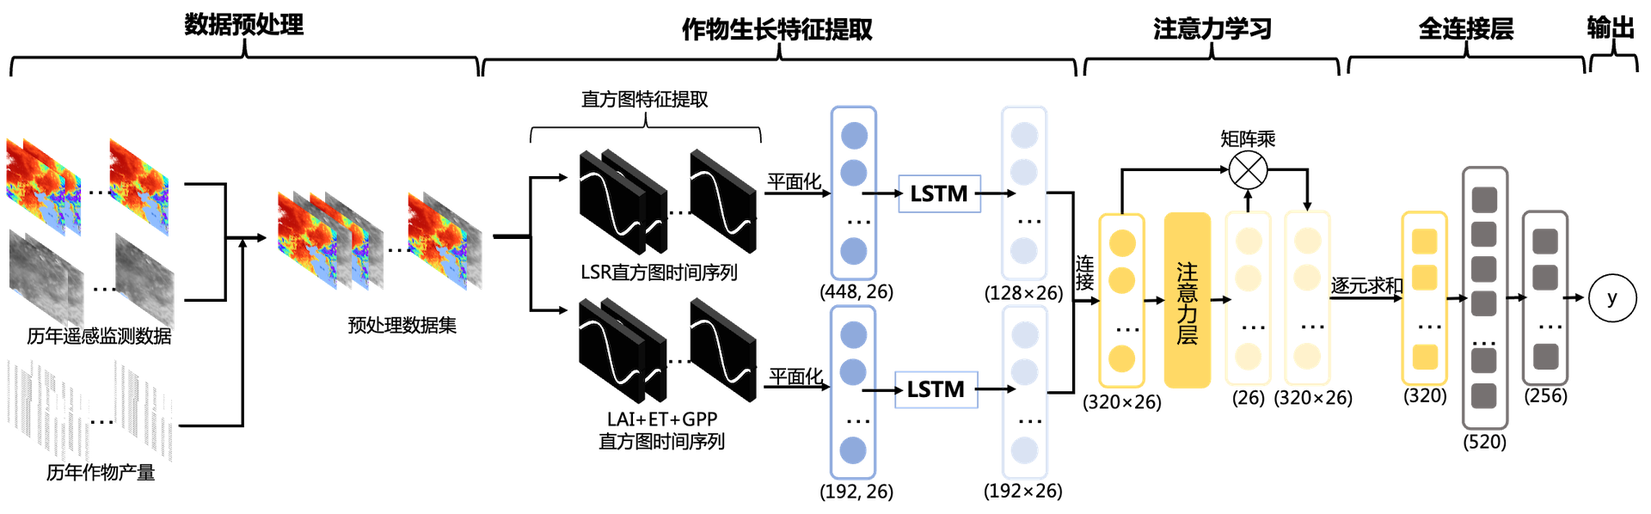
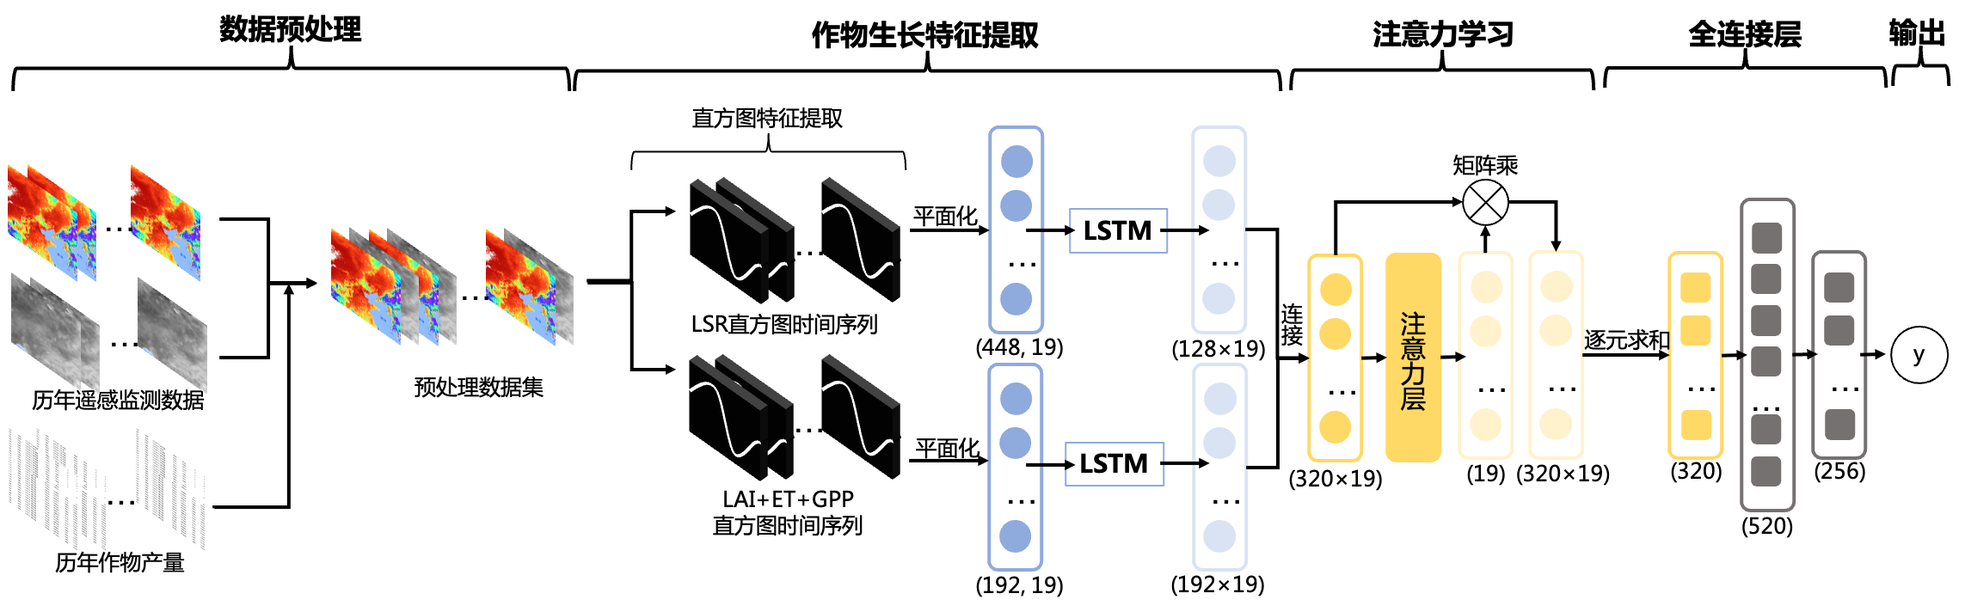
final_v0.3

diff --git a/body/undergraduate/final/2-body.tex b/body/undergraduate/final/2-body.tex
@@ -3,12 +3,12 @@
 \section{研究区域与数据}
 \subsection{研究区概况}
 \par 据联合国粮食与农业组织（FAO）\cite{FAO2022}统计，2022年中国玉米产量已占全球23.9\%，位居世界第二。同时中国作为世界两大玉米消费国之一，玉米消费量占全球消费总量的25.2\%。因此，玉米生产不论对中国经济还是对全球食品安全方面都有着重要意义。
-\par 目前，我国的玉米种植分布极不均衡，主要集中于东北、华北与西南地区。根据《中国统计年鉴-2022》\cite{国家统计局2022中国统计年鉴}统计，2022年东北三省的玉米产量占全国总产量的34.3\%。东北地区作为中国主要的粮食生产基地，其中的东北平原耕地广阔，地势平坦，利用遥感手段提取作物生长信息较为便利。因此，研究选定东北三省作为研究区域，即黑龙江省、吉林省与辽宁省，该地区以旱地为主，采用一季耕作模式，每年4-5月播种，9-10月收获。
+\par 目前，我国的玉米种植分布极不均衡，主要集中于东北、华北与西南地区。根据《中国统计年鉴-2022》\cite{国家统计局2022中国统计年鉴}统计，2022年东北三省的玉米产量占全国总产量的34.3\%。东北地区作为中国主要的粮食生产基地，其中的东北平原耕地广阔，地势平坦。然而，使用深度学习方法对东北地区进行玉米产量预测的研究尚不充分。因此，研究选定东北三省作为研究区域，即黑龙江省、吉林省与辽宁省，该地区以旱地为主，采用一季耕作模式，每年4月至5月播种，9月至10月收获。
 
 \subsection{作物数据}
-\par 在本研究中，东北地区各地级市的玉米总产量数据来源于知网中国经济社会大数据研究平台\cite{中国经济社会大数据研究平台}提供的黑龙江省、吉林省和辽宁省的统计年鉴。经过数据合并和清洗，获得了2000年至2019年东北地区地级市的玉米总产量数据。在数据处理过程中，注意到黑龙江省在2013年至2018年期间单独统计了绥芬河市和抚远市的作物总产量数据。因此，在对数据进行合并时，将这两个城市的产量数据分别合并入牡丹江市和佳木斯市的玉米总产量中，便于后续进行统一计算。2000年至2019年地级市玉米平均年总产量分布如\autoref{fig:yield_city}所示。
+\par 在本研究中，东北地区各地级市的玉米总产量数据来源于知网中国经济社会大数据研究平台\cite{中国经济社会大数据研究平台}提供的黑龙江省、吉林省和辽宁省的统计年鉴。经过数据合并和清洗，获得了2000年至2019年东北地区地级市的玉米总产量数据。在数据处理过程中，注意到黑龙江省在2013年至2018年期间单独统计了绥芬河市和抚远市的作物总产量数据。因此，在对数据进行合并时，将这两个城市的产量数据分别合并入牡丹江市和佳木斯市的玉米总产量中，便于后续进行统一计算。2000年至2019年地级市玉米平均年总产量分布如\autoref{fig:yield_city}所示。其中，松嫩平原及周边地区为玉米主要产区，总产量最高，三江平原与辽河平原也有较高的玉米产量。
 
-\par 东北三省的县级玉米总产量数据来源于项目提供的1981年至2012年的全国区县主要作物统计数据。通过对这些数据进行筛选和清洗，研究仅保留黑龙江省、吉林省和辽宁省的区县数据，对于部分缺失数据的无效区县样本进行了舍弃，获取了2000年至2012年的东北地区县级玉米总产量。与2000年至2012年区县尺度玉米平均年总产量分布如\autoref{fig:yield_county}所示，其中灰色区块表明该地区没有有效样本。
+\par 东北三省的县级玉米总产量数据来源于项目提供的1981年至2012年的全国区县主要作物统计数据。通过对这些数据进行筛选和清洗，研究仅保留黑龙江省、吉林省和辽宁省的区县数据，对于部分缺失数据的无效区县样本进行了舍弃，获取了2000年至2012年的东北地区县级玉米总产量。与2000年至2012年区县尺度玉米平均年总产量分布如\autoref{fig:yield_county}所示，其中灰色区块表明该地区没有有效样本。可见在县级尺度下，玉米高产量地区集中分布于黑龙江省西南部、吉林省西部与辽宁省北部，总体呈现西南多、东北少的分布特征。
 
 \begin{figure}
   \centering
@@ -48,9 +48,9 @@
 \par 研究中所用玉米分布数据来源于张朝等人制作的2000-2019年我国三大粮食作物物候分布图 ChinaCropPhen1km\cite{luo2020chinacropphen1km}，该产品空间分辨率为1km。数据集可通过Figshare平台（https://figshare.com）获取。
 
 \subsection{数据预处理}
-\par 在获取MODIS产品数据方面，目前主要使用谷歌云计算平台（Google Earth Engine, GEE）提供的云计算服务\cite{gorelick2017google}。平台数据目录存放了大量可公开获取的地理空间数据集，并可以通过基于Javascript API的Web端或Python API进行批量数据处理，能够满足各种研究需求。GEE 通过自身高效的计算能力和较为完整且实时更新的地理空间数据集，帮助用户通过统一简洁的编程环境对数据进行预处理操作，高效地解决了不同来源数据集在获取与处理过程中带来的处理时间冗长与存储空间不足问题。
+\par 在获取MODIS产品数据方面，目前主要使用谷歌云计算平台（Google Earth Engine, GEE）提供的云计算服务\cite{gorelick2017google}。平台数据目录存放了大量可公开获取的地理空间数据集，并可以通过基于Javascript API的Web端（https://code.earthengine.google.com）或Python API进行批量数据处理，能够满足各种研究需求。GEE 通过自身高效的计算能力和较为完整且实时更新的地理空间数据集，帮助用户通过统一简洁的编程环境对数据进行预处理操作，高效地解决了不同来源数据集在获取与处理过程中带来的处理时间冗长与存储空间不足问题。
 
-\par 介于以上优点，研究使用了 GEE 平台提供的 Python API，并结合 Shell 和 Python 脚本，批量获取了2000年到2019年18年内4月1日至10月31日的四项产品数据。这些数据分别被划分至地级市尺度和区县尺度，利用全国行政区划矢量数据进行划分。为了方便后续处理，将这些数据在云端先重采样至1km，再下载到本地进行进一步的处理和分析。同理，利用已有的行政区划数据对 ChinaCropPhen1km 数据集进行分割，并按照年份和行政区域分别对其进行存储。
+\par 介于以上优点，研究使用了 GEE 平台提供的 Python API，并结合 Shell 和 Python 脚本，批量获取了2000年到2019年18年内4月1日至8月31日的四项产品数据。这些数据分别被划分至地级市尺度和区县尺度，利用全国行政区划矢量数据进行划分。为了方便后续处理，将这些数据在云端先重采样至1km，再下载到本地进行进一步的处理和分析。同理，利用已有的行政区划数据对 ChinaCropPhen1km 数据集进行分割，并按照年份和行政区域分别对其进行存储。
 
 \par 地理空间数据抽象库\cite{warmerdam2008geospatial}（Geospatial Data Abstraction Library, GDAL）是一个开源地理空间数据处理库，它提供了一套完整的工具集，可用于读取、写入、转换和分析各种地理空间数据格式。通过使用 GDAL 对 ChinaCropPhen1km 数据集进行重投影处理，可以将其与 MODIS 产品数据进行匹配，以准确提取玉米种植地区的遥感信息。此外，将两数据集进行掩膜计算可以实现仅保留玉米种植地区的遥感信息，从而排除了其他不相关的信息干扰的目的。通过重投影与掩膜计算，研究成功获得了2000年至2019年地级市尺度以及2000年至2012年区县尺度的玉米遥感特征数据集。
 
@@ -60,12 +60,12 @@
     \label{equ:modis_series}
     I=(I^1, I^2, ..., I^t, ..., I^T), I^t\in R^{r\times c\times b}
 \end{equation}
-\par 其中，$I^t$指时间$t$时的多波段遥感影像；$r$、$c$、$b$分别指影像的行数、列数和波段数；$T$指影像的时间序列长度。在本研究中，$T=26$，$b=10$。
+\par 其中，$I^t$指时间$t$时的多波段遥感影像；$r$、$c$、$b$分别指影像的行数、列数和波段数；$T$指影像的时间序列长度。在本研究中，$T=19$，$b=10$。
 
 \section{研究方法}
 \subsection{估产样本构建}
 
-\par 通过上述数据预处理步骤，可以获得如\autoref{equ:dataset1}所示的样本数据集：
+\par 利用遥感特征数据地级市ID（ct\_adcode）或区县ID（dt\_adcode）与玉米真实产量所属地区ID一一对应，完成输入特征和输出总产量的匹配。最终可以获得如\autoref{equ:dataset1}所示的样本数据集：
 
 \begin{equation}
   \label{equ:dataset1}
@@ -74,7 +74,7 @@
 
 \par 其中，$y$为地区总产量，每一个样本$(I_t, y_t)$表示了某地区某年份的玉米遥感特征影像和总产量。
 
-\par 为了降低样本数据的维度，研究采用直方图降维的方法对样本数据进行降维处理。直方图降维的前提是假设玉米产量与像素空间分布无关，仅与不同像素数量相关。为确定直方图降维范围，减少直方图降维过程中的信息损失，研究首先借助 GDAL 库对各个波段的最大、最小值进行获取，统计了玉米特征样本集中像素值范围，如\autoref{tab:range}所示：
+\par 为了更好的提取作物生长特征，研究采用直方图降维的方法对样本数据进行降维处理。直方图降维的前提是假设玉米产量与像素空间分布无关，仅与不同像素数量相关。为确定直方图降维范围，减少直方图降维过程中的信息损失，研究首先借助 GDAL 库对训练集各个波段的最大、最小值进行获取，统计了玉米特征样本集中像素值范围，如\autoref{tab:range}所示：
 
 \begin{table}
   \centering
@@ -119,12 +119,12 @@
   D=\{(M_1, y_1),(M_2, y_2), ..., (M_n, y_n)\}
 \end{equation}
 
-\par 在本次实验中，东北地区地级市尺度玉米样本集包含2002年-2019年东北地区36个地级市646个样本，其中538个样本作为训练集，108个样本作为测试集；区县级尺度玉米样本集包含2002年-2012年282个区县的2335个有效样本，其中1850个样本作为训练集，485个样本作为测试集。
+\par 在本次实验中，东北地区地级市尺度玉米样本集包含2002年-2019年东北地区36个地级市646个样本，其中选取2002-2016年538个样本作为训练集，2017-2019年108个样本作为测试集；区县级尺度玉米样本集包含2002年-2012年282个区县的2335个有效样本，其中选取2002-2011年1850个样本作为训练集，2012年485个样本作为测试集。
 
 \subsection{模型构建}
-\subsubsection{结合注意力机制的长短期记忆神经网络}
+\subsubsection{DUAL\_ATT：结合注意力机制的两层长短期记忆神经网络}
 
-\par 研究使用的深度学习网络由两部分组成，如\autoref{fig:network}所示，首先由两个LSTM层分别接收由地表反射率共7个波段降维得到的特征向量和由地表蒸发量、叶面积指数和总初级生产力共3个波段降维得到的特征向量。通过将两个隐藏层的输出进行拼接，输入至注意力层计算参数权重向量，与原有特征向量进行乘计算后获得最终的特征向量。最后，特征向量经过三个全连接层，输出最终的玉米总产量预测值。
+\par 研究使用的深度学习网络由两部分组成，如\autoref{fig:network}所示，首先由两个LSTM层分别接收由地表反射率共7个波段降维得到的特征向量和由地表蒸发量、叶面积指数和总初级生产力共3个波段降维得到的特征向量。通过将两个隐藏层的输出进行拼接，输入至注意力层计算参数权重向量，与原有特征向量进行矩阵乘计算后获得最终的特征向量。最后，特征向量经过三个全连接层，输出最终的玉米总产量预测值。
 
 \begin{figure}[ht]
   \centering
@@ -180,13 +180,12 @@
 \par 为了验证提出模型的有效性，研究还对比了五个模型，分别是：
 
 \begin{itemize}
-  \item [（1）] 由两个并列LSTM层构成的深度学习模型（DUAL），隐藏单元数被分别设定为128个和192个，不包含注意力层。
-  \item [（2）] 结合了单层LSTM和注意力机制层的深度学习模型（LSTM\_ATT），其中LSTM隐藏单元数为320个。
-  \item [（3）] 由一层隐藏单元数为320的LSTM构成的深度学习模型（LSTM），不包含注意力层。
-  \item [（4）] 卷积神经网络模型（CNN），模型结构借鉴了由 You 等人\cite{you2017deep}提出的卷积神经网络结构，包含六个卷积层C1～C6，卷积核个数分别为64、64、128、128、256和256，卷积核大小均为$3\times 3$，滑动步长分别为2、1、2、1、2和1。每个卷积层后面都包含一个批归一化层和一个ReLu激活层。最后，将卷积层的输出依次经过神经元数量为512、256和1的三个全连接层，每个全连接层后的 Dropout 参数分别为50\%、30\%和20\%，最终输出玉米总产量预测值。
-  \item [（5）] 随机森林模型（RF），研究采用了 sklearn 库中的RandomForestRegressor类，该类实现了一种基于随机森林的回归算法。在随机森林模型的训练过程中，通过设置了多个关键参数，确保模型的稳定性和准确性。其中，随机森林中树的数量为200，树的最大深度为8，每个节点的最小样本数为3，每个叶子节点的最小样本数为4。
+  \item [（1）] DUAL：由两个并列LSTM层构成的深度学习模型，隐藏单元数被分别设定为128个和192个，不包含注意力层。
+  \item [（2）] LSTM\_ATT：结合了单层LSTM和注意力机制层的深度学习模型，其中LSTM隐藏单元数为320个。
+  \item [（3）] LSTM：由一层隐藏单元数为320的LSTM构成的深度学习模型，不包含注意力层。
+  \item [（4）] CNN：卷积神经网络模型，模型结构借鉴了由 You 等人\cite{you2017deep}提出的卷积神经网络结构。通过实验对比5、6和7个卷积层的预测效果，最终选择包含六个卷积层C1～C6的网络模型，卷积核个数分别为64、64、128、128、256和256，卷积核大小均为$3\times 3$，滑动步长分别为2、1、2、1、2和1。每个卷积层后面都包含一个批归一化层和一个ReLu激活层。最后，将卷积层的输出依次经过神经元数量为512、256和1的三个全连接层，通过测试50\%、40\%、30\%、20\%和10\%的失活率后，每个全连接层后的Dropout参数被分别设置为50\%、30\%和20\%，最终输出玉米总产量预测值。
+  \item [（5）] RF：随机森林模型，研究采用了sklearn库中的RandomForestRegressor类，该类实现了一种基于随机森林的回归算法。在随机森林模型的训练过程中，通过设置了多个关键参数，确保模型的稳定性和准确性。其中，随机森林中树的数量在测试了100、200、300、400和500后设置为200，树的最大深度在测试了6、8、10和12后设置为8，每个节点的最小样本数为3，每个叶子节点的最小样本数为4。
 \end{itemize}
-
 \subsection{评价指标}
 
 \par 为了评价模型的预测效果，研究采用了决定系数（$R^2$）、均方根误差（RMSE）和皮尔森相关系数（Pearson's R）三个评价指标。其中，$R^2$衡量了模型解释数据方差的能力，其值越接近1，表示模型对数据的解释越好。RMSE 用于度量模型预测值和实际值之间的误差大小，其值越小，表示模型预测的准确性越高。Pearson's R 用于评估模型输出和真实值之间的线性相关性，其值介于-1到1之间。其具体计算公式表示如下：
@@ -206,11 +205,13 @@
 
 \par 其中，$y_i$表示第i个样本的真实总产量，$\hat{y}_i$表示第i个样本的预测总产量，$\bar{y}_i$表示第i个样本真实平均总产量，$\bar{\hat{y}}_i$表示第i个样本预测平均总产量，$n$为样本总数。
 
-
 \section{结果分析}
 \subsection{估产精度分析}
+\subsubsection{地级市尺度估产精度分析}
 
 \par 在实验中，地级市尺度的模型测试选取了2017年-2019年三个年份不同城市的样本数据，测试实验得到的评价指标值如\autoref{tab:score_city}所示。结果显示，结合了注意力机制且包含两个LSTM层输入的DUAL\_ATT模型拥有最好的估产精度。具体而言，DUAL\_ATT的决定系数$R^2$为0.8244，均方根误差RMSE为101.2051万吨，皮尔森相关系数Pearson's R为0.9112。
+
+\par 可以看出，研究采用的玉米估产模型对于区域总产量预测具有较高的准确性。相较于仅包含一层LSTM层和注意力层的LSTM\_ATT模型，DUAL\_ATT模型在地级市尺度的决定系数$R^2$提高了0.1062，均方根误差RMSE降低了27.0219万吨，皮尔森相关系数Pearson's R提高了0.0281。与仅包含两层LSTM层而不包含注意力层的DUAL模型对比，DUAL\_ATT模型在地级市尺度的决定系数$R^2$提高了0.0683，均方根误差RMSE降低了18.0896万吨，皮尔森相关系数Pearson's R提高了0.0177。注意力机制最早应用于编码器-解码器（Encoder - Decoder）框架中，用于解决长期记忆能力有限、提取序列转化过程中的相互关系和模型结构输出质量的问题\cite{朱张莉2019注意力机制在深度学习中的研究进展}。DUAL\_ATT模型预测效果的提升表示，注意力机制的引入帮助玉米产量预测模型更好地捕捉了时间序列中的相互关系，提升了模型的长期记忆能力，实现了预测效果的提升。
 
 \begin{table}
   \centering
@@ -230,7 +231,12 @@
   \end{tabularx}
 \end{table}
 
+\par 与其他地级市尺度的玉米估产模型相比，卷积神经网络模型（CNN）和随机森林模型（RF）表现相对不理想。这可能是由于这些模型处理存在时间序列的数据的能力有所不足，无法捕捉到作物生长的复杂过程。具体而言，随机森林的原理是运用bootsrap重抽样方法从原始样本中抽取若干样本，并对每个bootsrap样本进行决策树建模，然后通过组合多棵决策树的预测结果，投票得出最终预测结果\cite{方匡南2011随机森林方法研究综述}。随机森林在传统分类问题上有很好的应用效果，然而，由于随机森林模型的决策树是独立建模的，无法捕捉到时间序列数据中的相互关系，因此在本研究中的预测效果不佳。卷积神经网络模型（CNN）的原理是通过卷积核对输入数据进行卷积操作，提取数据的空间特征，然后通过池化层对特征进行降维，最后通过全连接层进行分类\cite{周飞燕2017卷积神经网络研究综述}。卷积神经网络模型通过卷积核的时空联合学习，能够提取一定的时间序列特征，然而较于长短期记忆神经网络的长程记忆能力仍有所不足。
+
+\subsubsection{区县尺度估产精度分析}
 \par 县级尺度的估产模型选取了2012年的样本数据进行测试。测试实验得到的评价指标值如\autoref{tab:score_county}所示。尽管整体测试评价指标值较地级市尺度玉米估产有一定差距，但DUAL\_ATT的总体评价仍然是相对最优的。在区县尺度的测试集上，DUAL\_ATT的决定系数$R^2$为0.6141，均方根误差RMSE为39.4236万吨，皮尔森相关系数Pearson's R为0.8214。
+
+\par 在县级尺度的测试集上，DUAL\_ATT模型的决定系数$R^2$提高了0.0886，均方根误差RMSE降低了4.2904万吨，皮尔森相关系数Pearson's R提高了0.0896。这表明，DUAL\_ATT模型中的两层LSTM层通过分别接收地表反射率光谱数据和叶面积指数、地表蒸发量和总初级生产力光谱数据，更有效地捕捉了作物生长特征，因此提升了预测效果。与仅包含两层LSTM层而不包含注意力层的DUAL模型对比，DUAL\_ATT模型的决定系数$R^2$提高了0.1294，均方根误差RMSE降低了6.1308万吨，皮尔森相关系数Pearson's R提高了0.0447。
 
 \begin{table}
   \centering
@@ -249,12 +255,6 @@
       \bottomrule
   \end{tabularx}
 \end{table}
-
-\par 可以看出，研究采用的玉米估产模型对于区域总产量预测具有较高的准确性。相较于仅包含一层LSTM层和注意力层的LSTM\_ATT模型，DUAL\_ATT模型在地级市尺度的决定系数$R^2$提高了0.1062，均方根误差RMSE降低了27.0219万吨，皮尔森相关系数Pearson's R提高了0.0281。在县级尺度的测试集上，DUAL\_ATT模型的决定系数$R^2$提高了0.0886，均方根误差RMSE降低了4.2904万吨，皮尔森相关系数Pearson's R提高了0.0896。这表明，DUAL\_ATT模型中的两层LSTM层通过分别接收地表反射率光谱数据和叶面积指数、地表蒸发量和总初级生产力光谱数据，更有效地捕捉了作物生长特征，因此提升了预测效果。
-
-\par 与仅包含两层LSTM层而不包含注意力层的DUAL模型对比，DUAL\_ATT模型在地级市尺度的决定系数$R^2$提高了0.0683，均方根误差RMSE降低了18.0896万吨，皮尔森相关系数Pearson's R提高了0.0177。在县级尺度的测试集上，DUAL\_ATT模型的决定系数$R^2$提高了0.1294，均方根误差RMSE降低了6.1308万吨，皮尔森相关系数Pearson's R提高了0.0447。注意力机制最早应用于编码器-解码器（Encoder - Decoder）框架中，用于解决长期记忆能力有限、提取序列转化过程中的相互关系和模型结构输出质量的问题\cite{朱张莉2019注意力机制在深度学习中的研究进展}。DUAL\_ATT模型预测效果的提升表示，注意力机制的引入帮助玉米产量预测模型更好地捕捉了时间序列中的相互关系，提升了模型的长期记忆能力，实现了预测效果的提升。
-
-\par 与其他地级市尺度的玉米估产模型相比，卷积神经网络模型（CNN）和随机森林模型（RF）表现相对不理想。这可能是由于这些模型处理存在时间序列的数据的能力有所不足，无法捕捉到作物生长的复杂过程。具体而言，随机森林的原理是运用bootsrap重抽样方法从原始样本中抽取若干样本，并对每个bootsrap样本进行决策树建模，然后通过组合多棵决策树的预测结果，投票得出最终预测结果\cite{方匡南2011随机森林方法研究综述}。随机森林在传统分类问题上有很好的应用效果，然而，由于随机森林模型的决策树是独立建模的，无法捕捉到时间序列数据中的相互关系，因此在本研究中的预测效果不佳。卷积神经网络模型（CNN）的原理是通过卷积核对输入数据进行卷积操作，提取数据的空间特征，然后通过池化层对特征进行降维，最后通过全连接层进行分类\cite{周飞燕2017卷积神经网络研究综述}。卷积神经网络模型通过卷积核的时空联合学习，能够提取一定的时间序列特征，然而较于长短期记忆神经网络的长程记忆能力仍有所不足。
 
 \par 可以注意到，在区县尺度玉米估产模型的测试中，所有测试模型的表现均不如地级市尺度的模型。这可能是由于区县尺度的玉米总产量数据分布较为不均匀，如\autoref{fig:violin}所示，在将东北地区划分为区县尺度后，样本区域内玉米分布面积普遍偏少，这导致模型在区县尺度上难以有效提取作物生长过程中的特征，预测精度降低。此外，由于区县尺度下作物产量数据获取难度较大，数据的精度、广度均有所不足，也导致了模型在区县尺度上表现不佳。同时，模型在采用了Dropout层、批归一化层以及L2参数正则化等缓解过拟合问题的方法之后，仍然出现了训练集的预测精度相比验证集更高的过拟合现象。这表明模型训练样本较少，增加训练样本数量有助于提高模型的预测精度。
 
@@ -283,7 +283,7 @@
 \par 可以观察到，在各估产模型中，区县尺度的作物估产模型更容易低估玉米总产量值。这可能是由于区县尺度下玉米种植面积普遍较小，导致预测高产量区域的玉米产量较为困难，从而导致了模型在区县尺度下的低估现象。此外，由于模型输入参数仅包含了如地表反射率、叶面积指数、地表蒸发量与总初级生产力等反映在作物生长特征的数据，并没有考虑到农业生产技术的进步导致作物单产的提升，这给产量预测带来了较大的困难。该尺度下，使用结合注意力机制和双层LSTM的DUAL\_ATT模型能一定程度地缓解低估现象，然而模型仍会受到上述因素的影响，导致模型在区县尺度下低估高产量区域的玉米总产量。
 
 \subsection{误差时空分布分析}
-
+\subsubsection{地级市尺度误差时空分布分析}
 \par 地级市尺度玉米误差分布如\autoref{fig:error_2017}、\autoref{fig:error_2018}和\autoref{fig:error_2019}所示。
 
 \par 注意到在地级市尺度上，玉米的误差分布存在着显著的空间差异。其中辽河平原与三江平原地区的误差普遍较低，而DUAL\_ATT模型的预测值误差相对最小，预测效果更好。较大的误差主要出现在以哈尔滨市为中心的松嫩平原地区。其中，2017年DUAL\_ATT、DUAL、LSTM\_ATT和LSTM模型在松嫩平原地区都出现了产量高估的现象，但DUAL\_ATT较好地缓解了该现象。在2018年和2019年，该地区出现了普遍的产量低估现象，这可能是由于该地区的玉米种植面积大，玉米总产量在东北地区内相对较高。以2019年为例，哈尔滨市、长春市和绥化市的玉米总产量分别为814.78、780.01和722.20万吨，如\autoref{fig:yield_city}所示，三个城市属于高产量地区。由于将东北地区划分为地级市尺度后，样本数量相对较少，且高产量地区比例偏低，这导致了在模型训练过程中提取高产量地区作物生长特征的困难，最终导致总产量低估的现象的出现。
@@ -312,7 +312,8 @@
   \caption{区县尺度尺度误差分布}
 \end{figure}
 
-\par 对比如\autoref{fig:error_2010}、\autoref{fig:error_2011}和\autoref{fig:error_2012}所示的区县尺度玉米误差分布，可以发现该尺度下的误差分布更加均匀，且误差普遍较低。其中，部分缺失真实产量数据的地区使用白色填充，这些地区主要是城区，其玉米种植面积较小，因此并没有相应的有效产量数据记录。由于区县尺度下玉米种植面积普遍较小，因此模型在该尺度下的误差分布更加均匀，误差普遍较低。尽管DUAL\_ATT模型的预测效果相较于其他模型有更好的表现，产量低估的情况依然存在，且在松嫩平原地区等高产量地区更加明显，例如齐齐哈尔市龙江区在2012年的实际产量为336.84万吨，而预估产量仅为182.09万吨。因此，虽然区县尺度下的玉米产量估算具有更好的均匀性和准确性，但仍需要进一步探究和完善估算模型，以更好地解决产量低估问题，特别是在高产量地区。
+\subsubsection{区县尺度误差时空分布分析}
+\par 区县尺度玉米误差分布如\autoref{fig:error_2010}、\autoref{fig:error_2011}和\autoref{fig:error_2012}所示，可以发现该尺度下的误差分布更加均匀，且误差普遍较低。其中，部分缺失真实产量数据的地区使用白色填充，这些地区主要是城区，其玉米种植面积较小，因此并没有相应的有效产量数据记录。由于区县尺度下玉米种植面积普遍较小，因此模型在该尺度下的误差分布更加均匀，误差普遍较低。尽管DUAL\_ATT模型的预测效果相较于其他模型有更好的表现，产量低估的情况依然存在，且在松嫩平原地区等高产量地区更加明显，例如齐齐哈尔市龙江区在2012年的实际产量为336.84万吨，而预估产量仅为182.09万吨。因此，虽然区县尺度下的玉米产量估算具有更好的均匀性和准确性，但仍需要进一步探究和完善估算模型，以更好地解决产量低估问题，特别是在高产量地区。
 
 \subsection{讨论}
 \par 经过实验结果分析可以发现，通过使用直方图采样来降维遥感图像的方法，可以成功地保留作物生长的特征。此外，通过运用了长短期记忆神经网络和注意力机制，研究构建的模型 DUAL\_ATT 能够有效捕捉时间序列中的内在时空关系。这使得模型在地级市和区县尺度上均取得了相较于其他模型更加精确的预估结果。然而，由于数据集的限制，该玉米估产模型在高产量地区仍然出现了产量低估的现象。此外，在模型构建的过程中，研究仅仅使用了 MODIS 遥感产品数据作为输入，并没有考虑其他地面气象数据的辅助，这也可能导致模型在预估玉米产量时受到气象因素的影响，特别是如干旱和洪涝等极端天气事件。因此，在未来的工作中，应该考虑将其他气象数据作为模型的输入，以提高预估的精度。同时也可以考虑对数据集进行进一步的优化，以减少模型出现产量低估的情况。

diff --git a/body/undergraduate/final/1-introduction.tex b/body/undergraduate/final/1-introduction.tex
@@ -5,9 +5,10 @@
 \subsection{研究背景和目的}
 \par 农作物产量作为农业的重要指标，与全球饥饿问题密切相关。然而，2021年，全球范围内的多种因素叠加导致粮食价格大幅波动，进而加剧了全球粮食供应不均衡的现状，增加了粮食安全风险。新冠肺炎疫情、国际能源价格上涨、极端天气和地缘政治冲突等多重因素的影响，都使得农业生产的不稳定性逐渐加大。在这种情况下，如何及时、准确地监测农作物的生长状况、预测作物产量，成为为农业种植管理、土地利用管理、粮食贸易和食品安全决策提供科学参考的重要课题。在中国农业科学院发布的《中国农业产业发展报告2019》中，报告强调了“口粮绝对安全，谷物基本自给”的粮食安全观在中国农业发展中不可或缺的地位\cite{中国农业科学院2019中国农业产业发展报告}。而东北地区作为中国重要的粮食生产基地，研究该地区的作物生长特征并预测作物产量，对于保障中国粮食安全和发展国内农业具有重要意义。
 
-\par 作物估产模型以及遥感影像是预测作物产量的重要手段。在目前的作物估产模型中，卷积神经网络（CNN）和长短期记忆神经网络（LSTM）成为了最广泛使用的深度学习算法。例如，Qiao等人通过构建空间-光谱-时间神经网络（SSTNN）使用卷积计算捕捉作物生长特征实现作物估产\cite{qiao2021crop}；Sun等人则通过结合了 CNN 与 LSTM 的特性，构建了县级尺度的 CNN-LSTM 模型对美国大豆种植区进行了大豆单产预测\cite{sun2019county}。
 
-\par 我国将卫星遥感技术应用于农业生产的时间相对较晚\cite{史舟2015农业遥感研究现状与展望}。目前，农业遥感在农业资源调查、农业灾害监测和作物产量测算等方面得到了广泛应用\cite{陈仲新2016农业遥感研究应用进展与展望}。然而，结合人工智能与大数据等新兴技术，利用遥感数据提取作物生长时空特征建立估产模型，对中国东北地区进行作物产量预测的工作尚不充足。因此，本研究旨在利用地学人工智能方法解决中国东北地区玉米产量预测精度问题。以中国东北地区为研究区，采用深度学习（Deep Learning, DL）技术，利用遥感技术获取的多光谱影像数据提取玉米生长时空特征，并结合作物真实产量数据建立深度学习估产模型，提升玉米估产精度，实现较为稳定的产量估计，为中国大面积作物估产提供方法支持和技术保障。
+\par 卫星遥感技术已被广泛应用于作物估产。美国国家航空与宇宙航行局（NASA）、国家海洋大气局（NOAA）与农业部（USDA）于1974年联合开展了大面积作物调查实验（LACIE），其中面积监测使用了Landsat5 TM和Resourcesat-1 AWiFS两种传感器，长势监测主要使用NOAA AVHRR NDVI（两周合成）和MODIS NDVI数据，对小麦、玉米、大豆和水稻等作物的高精度产量预测\cite{erickson1984lacie}。欧盟第六司与欧盟委员会统计办公室与1988年合作开展MARS计划，其面积监测采用SPOT X、Landsat TM、IRS和雷达数据，长势监测采用SPOT-Vegetation NDVI和NOAA AVHRR NDVI数据，对小麦、大麦、水稻、玉米、油菜、向日葵、甜菜、土豆和牧草等多种作物进行长势监测和产量预报\cite{刘海启1999欧盟MARS}。我国虽然将卫星遥感技术应用于农业生产的时间相对较晚，但农业遥感也已在农业资源调查、农业灾害监测和作物估产得到了广泛应用。随着人工智能技术的兴起，基于深度学习的遥感估产已成为作物产量预测的重要方法。目前的深度学习估产模型中，卷积神经网络（CNN）和长短期记忆神经网络（LSTM）是最广泛使用的深度学习算法。例如，Qiao等人基于地表反射率和年度土地覆盖数据，通过构建空间-光谱-时间神经网络（SSTNN）使用卷积计算捕捉作物生长特征实现作物估产\cite{qiao2021crop}；Sun等人则基于地表反射率、地表温度、土地覆盖数据和天气数据，结合CNN与LSTM的特性，构建了县级尺度的 CNN-LSTM 模型对美国大豆种植区进行了大豆单产预测\cite{sun2019county}。
+
+\par 当前已有少数研究对中国东北地区作物产量进行了估算，例如Yao等人通过改进RS-P-YEC（Remote-Sensing-Photosynthesis-Yield estimation for Crops）模型对东北平原玉米产量进行了模拟\cite{yao2015estimation}。但仍未有基于深度学习方法，对中国东北地区玉米作物进行多尺度产量估算的研究。因此，本研究旨在利用地学人工智能方法对中国东北地区玉米产量进行多尺度估算。以中国东北地区为研究区，从地市级和区县两个尺度出发，基于深度学习（Deep Learning, DL）技术和遥感技术提取玉米生长时空特征，并建立深度学习估产模型，实现较为稳定的玉米产量估计，为中国大面积作物估产提供方法支持和技术保障。
 
 \section{国内外研究现状}
 
@@ -15,9 +16,9 @@
 
 \subsubsection{作物估产方法研究进展}
 
-\par 近年来，随着卫星的遥感技术的进步，连续提取作物生长的时空信息成为可能。通过观察电磁波和作物之间的相互作用\cite{guan2017shared, zhang2003monitoring}，遥感可以监测作物生长状况，并具有较传统方法更好的空间覆盖性、时间连续性和可用性\cite{claverie2013validation}。这种近似是可以接受的，因为归一化差异植被指数（NDVI）和增强植被指数（EVI）等植被指数已被证明对植被动态敏感\cite{sellers1987canopy, tucker1979red}并与作物产量密切相关\cite{shanahan2001use}。因此，越来越多基于遥感的产量估计方法陆续被提出，包括统计回归、传统机器学习和深度学习等方法。
+\par 近年来，随着卫星遥感技术的进步，连续提取作物生长的时空信息成为可能\cite{WEISS2020111402}。受限于特征学习能力，统计回归、机器学习和神经网络等方法通常使用卫星衍生植被指数（VIs）\cite{shammi2021use, stas2016comparison}或遥感影像时间序列\cite{8367850, nagy2018wheat}来定量描述作物生长。这些近似是可以接受的，因为归一化差异植被指数（NDVI）和增强植被指数（EVI）等植被指数已被证明对植被动态敏感\cite{sellers1987canopy, tucker1979red}并与作物产量密切相关\cite{shanahan2001use}。因此，越来越多基于遥感的产量估计方法陆续被提出，包括统计回归、传统机器学习和深度学习等方法。
 
-\par 统计回归是传统的作物估产方法。例如，Huang等人\cite{huang2013remotely}基于AVHRR NDVI数据以及相应的历史作物产量，提出了泛用于中国省级水稻产量预测的逐步回归模型。Shammi和Meng\cite{shammi2021use}利用基于MODIS NDVI或EVI的生长指标和密西西比州县级大豆产量建立了19个线性回归模型。Son等人\cite{son2014comparative}利用多时空MODIS EVI数据建立二次模型，于湄公河三角洲地区进行作物估产。
+\par 统计回归是传统的作物估产方法。例如，Huang等人\cite{huang2013remotely}基于AVHRR NDVI数据以及相应的历史作物产量，为中国五个省份建立了水稻产量预测的逐步回归模型。Shammi和Meng\cite{shammi2021use}利用基于MODIS NDVI或EVI的生长指标和密西西比州县级大豆产量建立了19个线性回归模型。Son等人\cite{son2014comparative}利用多时空MODIS EVI数据建立二次模型，于湄公河三角洲地区进行作物估产。
 
 \par 统计回归方法固然简单，对数据的要求不高，能够在大多数地区得到实施，但是，简单的映射结构使其在处理作物产量和相关作物指数之间复杂的非线性关系时缺乏灵活性\cite{balaghi2008empirical, ren2008regional}。因此，随着机器学习的提出，学者开始探索基于机器学习的作物估产方法。例如，王鹏新等人\cite{NYJX201907026}以条件植被温度指数（VTCI）和上包络线S-G滤波的叶面积指数（LAI）为特征变量，构建了加权VTCI和LAI与玉米单产的单变量和双变量估产模型，并证明基于随机森林回归的双变量估产模型具有更好的估产效果。Johnson等人\cite{johnson2016crop}以加拿大草原为研究区域，利用MODIS NDVI、EVI指数，分别构建了基于多重线性回归（MLR）、贝叶斯神经网络（BNN）和基于模型的递归分割（MOB）的作物产量预测模型，对大麦、油菜以及春小麦三种作物的产量进行预测。
 
@@ -25,15 +26,15 @@
 
 \subsubsection{东北地区作物估产研究现状}
 
-\par 东北地区指我国东北的辽宁省、吉林省和黑龙江省，该地区耕地主要分布于三江平原、松嫩平原、松辽平原东北部，以及周围山前台地，是中国重要的粮食生产基地。学者针对该地区农业生产展开了多方面研究，例如Yu等人通过结合气象研究与预报（WRF）与 Noah-MP-Crop 模型参数，改善了原有模型对于大豆与玉米作物生长生物量的模拟\cite{YU2022107323}。Yao等人通过改进RS-P-YEC（Remote-Sensing-Photosynthesis-Yield estimation for Crops）模型对东北平原玉米产量进行了模拟\cite{yao2015estimation}。Li等人将环境数据与多个卫星数据结合起来，构建两种线性回归方法、三种机器学习方法和一种机器学习集成模型，实现了玉米、水稻和大豆的产量预测\cite{li2022exploring}。
+\par 东北地区指我国东北的辽宁省、吉林省和黑龙江省，该地区耕地主要分布于三江平原、松嫩平原、松辽平原东北部，以及周围山前台地，是中国重要的粮食生产基地。学者针对该地区农业生产展开了多方面研究，例如Yu等人通过结合气象研究与预报（WRF）与 Noah-MP-Crop 模型参数，改善了原有模型对于大豆与玉米作物生长生物量的模拟\cite{YU2022107323}。Yao等人通过改进RS-P-YEC模型对东北平原玉米进行产量估算\cite{yao2015estimation}。Li等人将环境数据与多个卫星数据结合起来，构建两种线性回归方法、三种机器学习方法和一种机器学习集成模型，实现了玉米、水稻和大豆的产量预测\cite{li2022exploring}。
 
 \subsubsection{当前研究问题与不足}
-\par 相较于统计回归、传统机器学习等传统方法，深度学习表现出了更好的预测性能，极大程度提高了作物估产的精度。然而，近年来在基于深度学习模型的大面积作物估产研究中，鲜见运用深度学习方法对中国东北地区玉米进行产量预测。同时，过去对东北地区作物产量估算的模型中，往往依赖了当地环境数据与气象数据，这也限制了模型在大范围作物估产方面的应用。
+\par 相较于统计回归、传统机器学习等传统方法，深度学习表现出了更好的预测性能，极大程度提高了作物估产的精度。然而，近年来在基于深度学习模型的大面积作物估产研究中，鲜见运用深度学习方法对中国东北地区玉米进行产量预测。同时，已有的东北地区作物产量估算模型也往往受限于精细化的本地环境数据，导致模型无法应用于大范围作物估产。
 
 \subsection{研究思路与技术框架}
 
 \subsubsection{研究目的}
-\par 本文的研究目标是运用结合注意力机制的长短期记忆神经网络（DUAL\_ATT），分别构建基于MODIS产品的东北地区地级与区县级玉米总产量预测模型，并通过对比实验与传统机器学习、深度学习模型进行效果对比，验证模型有效性，以达到提升东北地区玉米产量预测精度的目的。
+\par 本文的研究目标是运用结合注意力机制的长短期记忆神经网络（DUAL\_ATT），分别构建基于MODIS产品的东北地区地级市与区县尺度玉米总产量预测模型，从估产精度分析、预测误差分布分析和误差时空分析三个方面展开结果分析，探索不同尺度下的玉米产量估计效果以及产量误差之间潜在的时空分布关系。
 
 \subsubsection{研究内容}
 \par 为实现上述研究目的，需从以下方面展开研究：
@@ -41,13 +42,13 @@
   \item [（1）] 数据收集与预处理。
   \par 通过在线平台获取2000年-2012年东北三省县级玉米产量与2000年-2019年东北三省地级市玉米产量统计数据，并从开源平台获取对应区域的玉米物候数据集。同时通过云计算平台Google Earth Engine对MODIS产品数据集进行数据获取与预处理。
   \item [（2）] 模型构建与训练。
-  \par 以中国东北地区为研究区域，选择玉米作为研究作物，选择中分辨率成像光谱仪（MODIS）中的地表反射率（LST）产品MOD09A1、叶面积指数（LAI）产品MOD15A2H、地表蒸发量（ET）产品MOD16A2和总初级生产力（GPP）产品MOD17A2H作为输入，通过提取遥感影像中时空信息特征获取作物生长信息，并结合往年地区统计的作物产量数据，构建以结合注意力机制的长短期记忆网络为基础的地级市、区县级玉米估产模型。
+  \par 以中国东北地区为研究区域，选择玉米作为研究作物，选择中分辨率成像光谱仪（MODIS）产品数据作为输入，通过提取遥感影像中时空信息特征获取作物生长信息，并结合往年地区统计的作物产量数据，构建以结合注意力机制的长短期记忆神经网络为基础的地级市、区县级玉米估产模型DUAL\_ATT。
   \item [（3）] 估产模型评价与分析
-  \par 将已有的其它模型应用于同一数据集进行产量估算，以实际产量统计数据为参考，通过计算不同模型对应的决定系数（$R^2$）、均方根误差 RMSE 和皮尔森相关系数（Pearson's R），对比模型的作物估产精度。绘制产量预测值与真实值的坐标散点图，分析研究不同模型预测数值分布。最后，考虑测试样本的地理分布，绘制预测误差时空分布图，发掘产量误差之间潜在的时空联系。
+  \par 以实际产量统计数据为参考，计算结合注意力机制的两层长短期记忆神经网络DUAL\_ATT、两层长短期记忆神经网络DUAL、结合注意力机制和单层长短期记忆神经网络LSTM\_ATT、单层长短期记忆神经网络LSTM、卷积神经网络CNN和随机森林RF六种模型的决定系数（$R^2$）、均方根误差（RMSE）和皮尔森相关系数（Pearson's R），并评估不同模型的作物估产精度。绘制产量预测值与真实值的坐标散点图，分析研究不同模型预测数值分布。最后，考虑测试样本的地理分布，绘制预测误差时空分布图，发掘产量误差之间潜在的时空联系。
 \end{itemize}
 
 \subsubsection{技术路线}
-\par 本文研究思路如图\autoref{fig:final_path}所示。首先通过开放平台获取了所需的玉米产量数据、作物物候分布数据集 ChinaCropPhen1km 以及 MODIS 产品数据。接下来，使用玉米物候分布数据集作为掩膜，对 MODIS 产品数据依次进行掩膜计算，以获取玉米生长期内的遥感影像指标。然后，通过运用直方图频率统计技术，对这些遥感影像指标进行降维处理，从而提取出玉米生长特征，并将其作为模型输入。结合注意力机制，构建以长短期记忆神经网络（LSTM）为基础的深度学习模型。最后，为了全面评价所提出的模型的性能表现，选择决定系数（$R^2$）、均方根误差（RMSE）和皮尔森相关系数（Pearson's R）三种评价指标，与其他传统的机器学习和深度学习模型进行对比；绘制产量预测值与真实值的坐标散点图，分析误差数值分布；绘制误差时空分布图，分析误差时空分布关系。
+\par 本文研究思路如图\autoref{fig:final_path}所示。首先通过开放平台获取了所需的玉米产量数据、作物物候分布数据集 ChinaCropPhen1km 以及 MODIS 产品数据。接下来，使用玉米物候分布数据集作为掩膜，对 MODIS 产品数据依次进行掩膜计算，以排除无玉米种植区域的信息干扰。然后，通过运用直方图频率统计技术，对这些遥感影像指标进行降维处理，从而提取出玉米生长特征，并将其作为模型输入。构建结合注意力机制的长短期记忆神经网络的地级市和区县尺度深度学习模型DUAL\_ATT。最后，为了全面评价所提出的模型的性能表现，选择决定系数（$R^2$）、均方根误差（RMSE）和皮尔森相关系数（Pearson's R）三种评价指标，与其他传统的机器学习和深度学习模型进行对比；绘制产量预测值与真实值的坐标散点图，分析误差数值分布；绘制误差时空分布图，分析误差时空分布关系。
 
 \begin{figure}
   \centering

diff --git a/body/undergraduate/final/abstract.tex b/body/undergraduate/final/abstract.tex
@@ -3,9 +3,9 @@
     \bfseries \zihao{3} 摘要
 \end{center}
 
-\par 农作物产量是农业的一个重要指标，与全国乃至世界的饥饿问题密切相关。中国是全球最大的玉米生产与消费国之一，东北地区承载了全国34.3\%的玉米生产量。因此，能够在弱先验条件的情况下对中国东北地区进行大面积的玉米产量预测，可以为我国农业种植管理、土地利用管理、粮食贸易和食品安全决策提供科学参考。
+\par 农作物产量是农业的重要指标之一，与全国乃至世界的饥饿问题密切相关。中国是全球最大的玉米生产与消费国之一，东北地区承载了全国34.3\%的玉米生产量。因此，对中国东北地区玉米产量进行准确的提前预测，可以为我国农业种植管理、土地利用管理、粮食贸易和食品安全决策提供科学参考，对粮食安全保障具有重要意义。
 
-\par 过去的研究表明，地表反射率、叶面积指数等多光谱数据能够有效反映作物的生长特征。同时通过长短期记忆神经网络等能够捕捉时间序列中的内在时空关系的深度学习模型，可以自适应地关注输入序列中的重要生长信息，有效监测作物生长情况。然而，近年来在基于深度学习模型的大面积作物估产的研究中，针对中国东北地区开展玉米产量预测的工作较少。因此，研究以东北省份作为研究地区，从地级市尺度与区县尺度两个研究尺度入手，通过直方图统计的方式对遥感产品数据进行降维处理，并构建结合注意力机制和长短期记忆神经网络的深度学习模型，与其他传统机器学习和深度学习模型进行估产效果对比。从估产精度分析、预测误差分布分析和误差时空分析三个方面展开实验结果分析，探索了不同尺度下的玉米产量估计效果以及产量误差之间潜在的时空分布关系。
+\par 过去的研究表明，地表反射率、叶面积指数等遥感参量能够有效反映作物的生长特征，并已广泛应用于在了遥感估产中。长短期记忆神经网络等深度学习模型能够捕捉时间序列中的内在时空关系，提取并学习作物时间序列中的重要生长信息，实现作物产量的估算。然而，仍未有研究基于深度学习方法，对中国东北地区玉米作物进行多尺度产量估算。近年来在基于深度学习模型的大面积作物估产的研究中，针对中国东北地区开展玉米产量预测的工作较少。因此，研究以黑龙江省、吉林省和辽宁省三个东北省份作为研究地区，从地级市与区县两个研究尺度入手，基于直方图统计方法分别对地表反射率、叶面积指数、总蒸发量和总初级生产力数据进行降维处理，并构建结合注意力机制和长短期记忆神经网络的深度学习模型，对东北地区玉米作物进行多尺度产量估测，并从估产精度分析、预测误差分布分析和误差时空分析三个方面展开结果分析，探索了不同尺度下的玉米产量估计效果以及产量误差之间潜在的时空分布关系。
 
 \par 研究主要结论如下：
 
@@ -20,9 +20,9 @@
     \bfseries \zihao{3} Abstract
 \end{center}
 
-\par Crop yield is an important indicator of agriculture and is closely related to the problem of hunger in the country and the world. China is one of the world's largest producers and consumers of maize, and the northeastern region carries 34.3\% of the country's maize production. Therefore, being able to forecast maize production over a large area in northeastern China under weak a priori conditions can provide a scientific reference for agricultural plantation management, land use management, food trade and food security decisions in China.
+\par Crop yield is one of the important indicators of agriculture and is closely related to the problem of hunger in the country and the world. China is one of the world's largest producers and consumers of corn, and the northeastern region carries 34.3\% of the country's corn production. Therefore, accurate advance prediction of maize production in northeast China can provide scientific reference for China's agricultural plantation management, land use management, grain trade and food safety decisions, and is of great significance for food security assurance.
 
-\par Recent studies have shown that multispectral data such as surface reflectance and leaf area index can effectively reflect the growth characteristics of crops. Meanwhile, deep learning models that can capture the intrinsic spatio-temporal relationships in time series, such as long- and short-term memory neural networks, can adaptively focus on the important growth information in the input series and effectively monitor crop growth. However, in recent years, less work has been conducted on maize yield prediction for northeastern China in studies of large-area crop yield estimation based on deep learning models. Therefore, the study takes the northeastern provinces as the research area, and starts from two research scales: prefecture-level city scale and district and county scale. The histogram statistics are used to reduce the dimensionality of remote sensing product data, and a deep learning model combining attention mechanism and long and short-term memory neural network is constructed to compare the yield estimation effect with other traditional machine learning and deep learning models. The experimental results are analyzed from three aspects: yield estimation accuracy analysis, prediction error distribution analysis and error spatio-temporal analysis, and the potential spatio-temporal distribution relationship between the estimation effect of maize yield and yield error at different scales is explored.
+\par Recent studies have shown that remote sensing parameters such as surface reflectance and leaf area index can effectively reflect the growth characteristics of crops and have been widely used in remote sensing yield estimation. Deep learning models such as long and short-term memory neural networks can capture the intrinsic spatio-temporal relationships in time series, extract and learn important growth information from crop time series, and achieve crop yield estimation. However, there is still no study on multi-scale yield estimation of maize crop in northeast China based on deep learning methods. In recent years, among the studies on large-area crop yield estimation based on deep learning models, less work has been conducted on maize yield prediction for northeastern China. Therefore, the study takes three northeastern provinces, Heilongjiang, Jilin and Liaoning, as the research areas, and starts from two research scales, namely, prefecture-level cities and districts and counties, and performs dimensionality reduction on remote sensing product data based on histogram statistical methods, and constructs a deep learning model combining attention mechanism and long- and short-term memory neural network to perform multi-scale yield estimation of maize crop in northeastern China, and analyzes the yield estimation accuracy, prediction error The results are analyzed from three aspects: yield estimation accuracy analysis, prediction error distribution analysis and error spatio-temporal analysis, and the potential spatio-temporal distribution relationships among the yield estimation effects and yield errors at different scales are explored.
 
 \begin{itemize}
   \item [（1）] Compared with other machine learning and deep learning models, the DUAL\_ATT model constructed in this study achieves better yield estimation results by using long and short-term memory neural networks and can more effectively capture the intrinsic spatio-temporal relationships in maize growth time series and extract growth characteristics. At the prefectural scale, the RMSE of the yield estimation model is 1,012,100 tons with a coefficient of determination of 0.8244. At the county scale, the RMSE of the model is 394,200 tons with a coefficient of determination of 0.6141.

diff --git a/zjuthesis.tex b/zjuthesis.tex
@@ -43,7 +43,7 @@
 ]{zjuthesis}
 
 %% Uncomment the following lines if you need multi line titles on cover pages
-\titletwolines{基于深度学习的中国东北}{玉米估产方法研究}
+\titletwolines{基于深度学习的中国东北}{玉米估产研究}
 % \titleengtwolines{English Title Line One}{Englisht Title Line Two}
 
 %% Uncomment the following lines if you need multi line department names on cover pages

diff --git a/page/undergraduate/final/toc.tex b/page/undergraduate/final/toc.tex
@@ -1,6 +1,7 @@
 \cleardoublepage{}
 
-\setcounter{page}{1}
+% \setcounter{page}{1}
+\setcounter{tocdepth}{3}
 
 \tableofcontents
 
